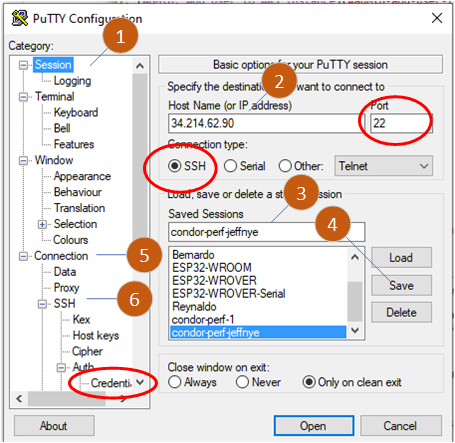
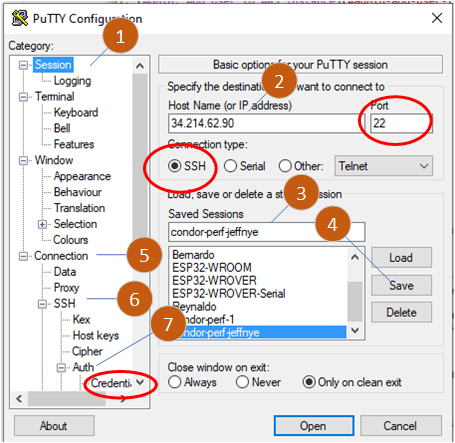
latest putty instructions

Changed region(s): [[0.1538, 0.7923, 0.3692, 0.9097], [0.3077, 0.6749, 0.4308, 0.7923], [0.2769, 0.763, 0.3077, 0.7923]]

diff --git a/AWS.md b/AWS.md
@@ -8,12 +8,21 @@ Common AWS maintenance tasks
 
 1. [Configuring your credentials](#configuring-your-credentials)
 
+    1. [Pre-reqs](#pre-reqs)
+
+    1. [Convert PEM to PPK](#convert-pem-to-ppk)
+
 1. [Login using putty](#login-using-putty)
+
+    1. [Putty one time setup](#putty-one-time-setup)
+
+    1. [Putty login using named session](#putty-login-using-named-session)
 
 1. [Login using NoMachine](#login-using-nomachine)
 
 1. [Admin: Add User to AWS instance](#admin-add-user-to-aws-instance)
 
+    1. [Create key/pair](#create-key-pair)
 
 --------------------------------------
 # Machine Info
@@ -53,7 +62,7 @@ AvailZ:    us-west-2c
 - turn on all files in the file select window
 - select the .pem file
 - (2) cut and paste the contents of this box into a plain text file.
-    - save this file as USER_akey.txt
+    - save this file as USER_akey.txt, e.g. jeffnye_akey.txt
     - Your USER_akey.txt file should be one line of text, 
         - beginning with 'ssh-rsa' and ending with 'imported-openssh-key'
         - It may look like it is on multiple lines due to word wrapping.
@@ -76,43 +85,50 @@ These are the steps for a text console time there are different steps for the No
 
 - You need to have created the PPK file and the USER_akey.txt file in the 
 previous steps.
-- You should have sent me the USER_akey.txt in email to Condor.
+- You should have sent me the USER_akey.txt (e.g. jeffnye_akey.txt) in my email at Condor.
 - Once I receive this I will add your user and akey to your instance account
 
 You can not proceed further until the steps above are completed.  Putty login uses the PPK file.  Your password is the pass phrase you used to create or akey.
 
 ## Putty one time setup
 - Start putty
+    - See "Fig 1. Putty main window" below
 - (1) Select session on the left
 - (2) Under host name add 34.214.62.90
     - This is the public IP address of the instance,
     - see more machine info at the top of this page
 - Use port 22, select SSH
 - (3) In saved sessions add condor-perf-USER
-    - append your user name condor-perf
+    - append your user name to condor-perf, condor-perf-jeffnye
 - (4) Save the session
 - (5) Select Connection on the left
-    - Expand SSH submenu
-    - Expand Auth submenu
-    - Select Credentials
-- (6) Private key file for authentication, Browse
-#    - Find your ppk file
-- (1) Select session again
+- (6) Expand SSH submenu
+- (7) Expand Auth submenu
+    - Select Credentials 
+        - this will open a new window
+        - see "Fig 2. Putty credentials window" below
+- (8) Private key file for authentication, Browse
+    - Find your ppk and select it
+- (1) Select session again on the left panel
 - (4) Save the session again
 
-Putty one time setup is complete.
+<b>Putty one time setup is complete. Proceed to Putty login</b>
 
 ![image](./images/annotated_putty.png)
+<br> *Fig 1. - Putty main window*
+
+![image](./images/annotated_putty2.png)
+<br> *Fig 2. - Putty credentials window*
 
 
 ## Putty login using named session
 
 - Start putty
-- Find your named session, condor-perf-USER
+- Find your named session, condor-perf-USER, e.g. condor-perf-jeffnye
 - Load your session
 - Select butten Open
 - A window will open
-- Login as:  USER
+- Login as:  USER        (e.g. jeffnye)
 - Passphrase for key "imported-openssh-key": enter your passphrase
 
 You should now have a text console. Test it:
@@ -137,35 +153,6 @@ This assumes you have installed NoMachine.
 STOPPED HERE
 
 --------------------------------------
-# Common problems
-
-- PUTTY reports an unrecognized signature the first time it connects to a 
-  new machine
-    - This is usually expected
-    - Please read what is in the dialog and make an informed choice.
-
-- If AWS refuses your credentials make sure your PPK is associated with 
-  your named session
-    - Notice in the puttygen instructions that you saved the session twice 
-      in the one time setup. 
-        - Once to give the session a name
-        - Once to assign the PPK file for the session
-
-- You will get denied access if:
-    - I have not setup your AWS account yet 
-    - If I have done it wrong
-    - Either way send me an email
-
-- If the NoMachine access times out it may be becuase the system rebooted 
-  and the NoMachine service daemon did not restart
-    - Send me an email
-    - Or if you have root/sudo credentials restart the nxclienta
-        -  sudo nxserver --restart nxd
-    - Test restart success with
-        - sudo /etc/NX/nxserver --status 
-        - ps -ef | grep nxd
-
---------------------------------------
 # Admin: Add user to AWS instance
 
 I follow these instructions [LINK](https://docs.aws.amazon.com/AWSEC2/latest/UserGuide/managing-users.html#create-user-account)
@@ -183,3 +170,35 @@ Cut and paste the public key into a text file
     - the instructions above go through this.
 
 STOPPED HERE
+
+
+--------------------------------------
+# Common problems
+
+- PUTTY reports an unrecognized signature the first time it connects to a
+  new machine
+    - This is usually expected
+    - Please read what is in the dialog and make an informed choice.
+
+- If AWS refuses your credentials make sure your PPK is associated with
+  your named session
+    - Notice in the puttygen instructions that you saved the session twice
+      in the one time setup.
+        - Once to give the session a name
+        - Once to assign the PPK file for the session
+
+- You will get denied access if:
+    - I have not setup your AWS account yet
+    - If I have done it wrong
+    - Either way send me an email
+
+- If the NoMachine access times out it may be becuase the system rebooted
+  and the NoMachine service daemon did not restart
+    - Send me an email
+    - Or if you have root/sudo credentials restart the nxclienta
+        -  sudo nxserver --restart nxd
+    - Test restart success with
+        - sudo /etc/NX/nxserver --status
+        - ps -ef | grep nxd
+
+
